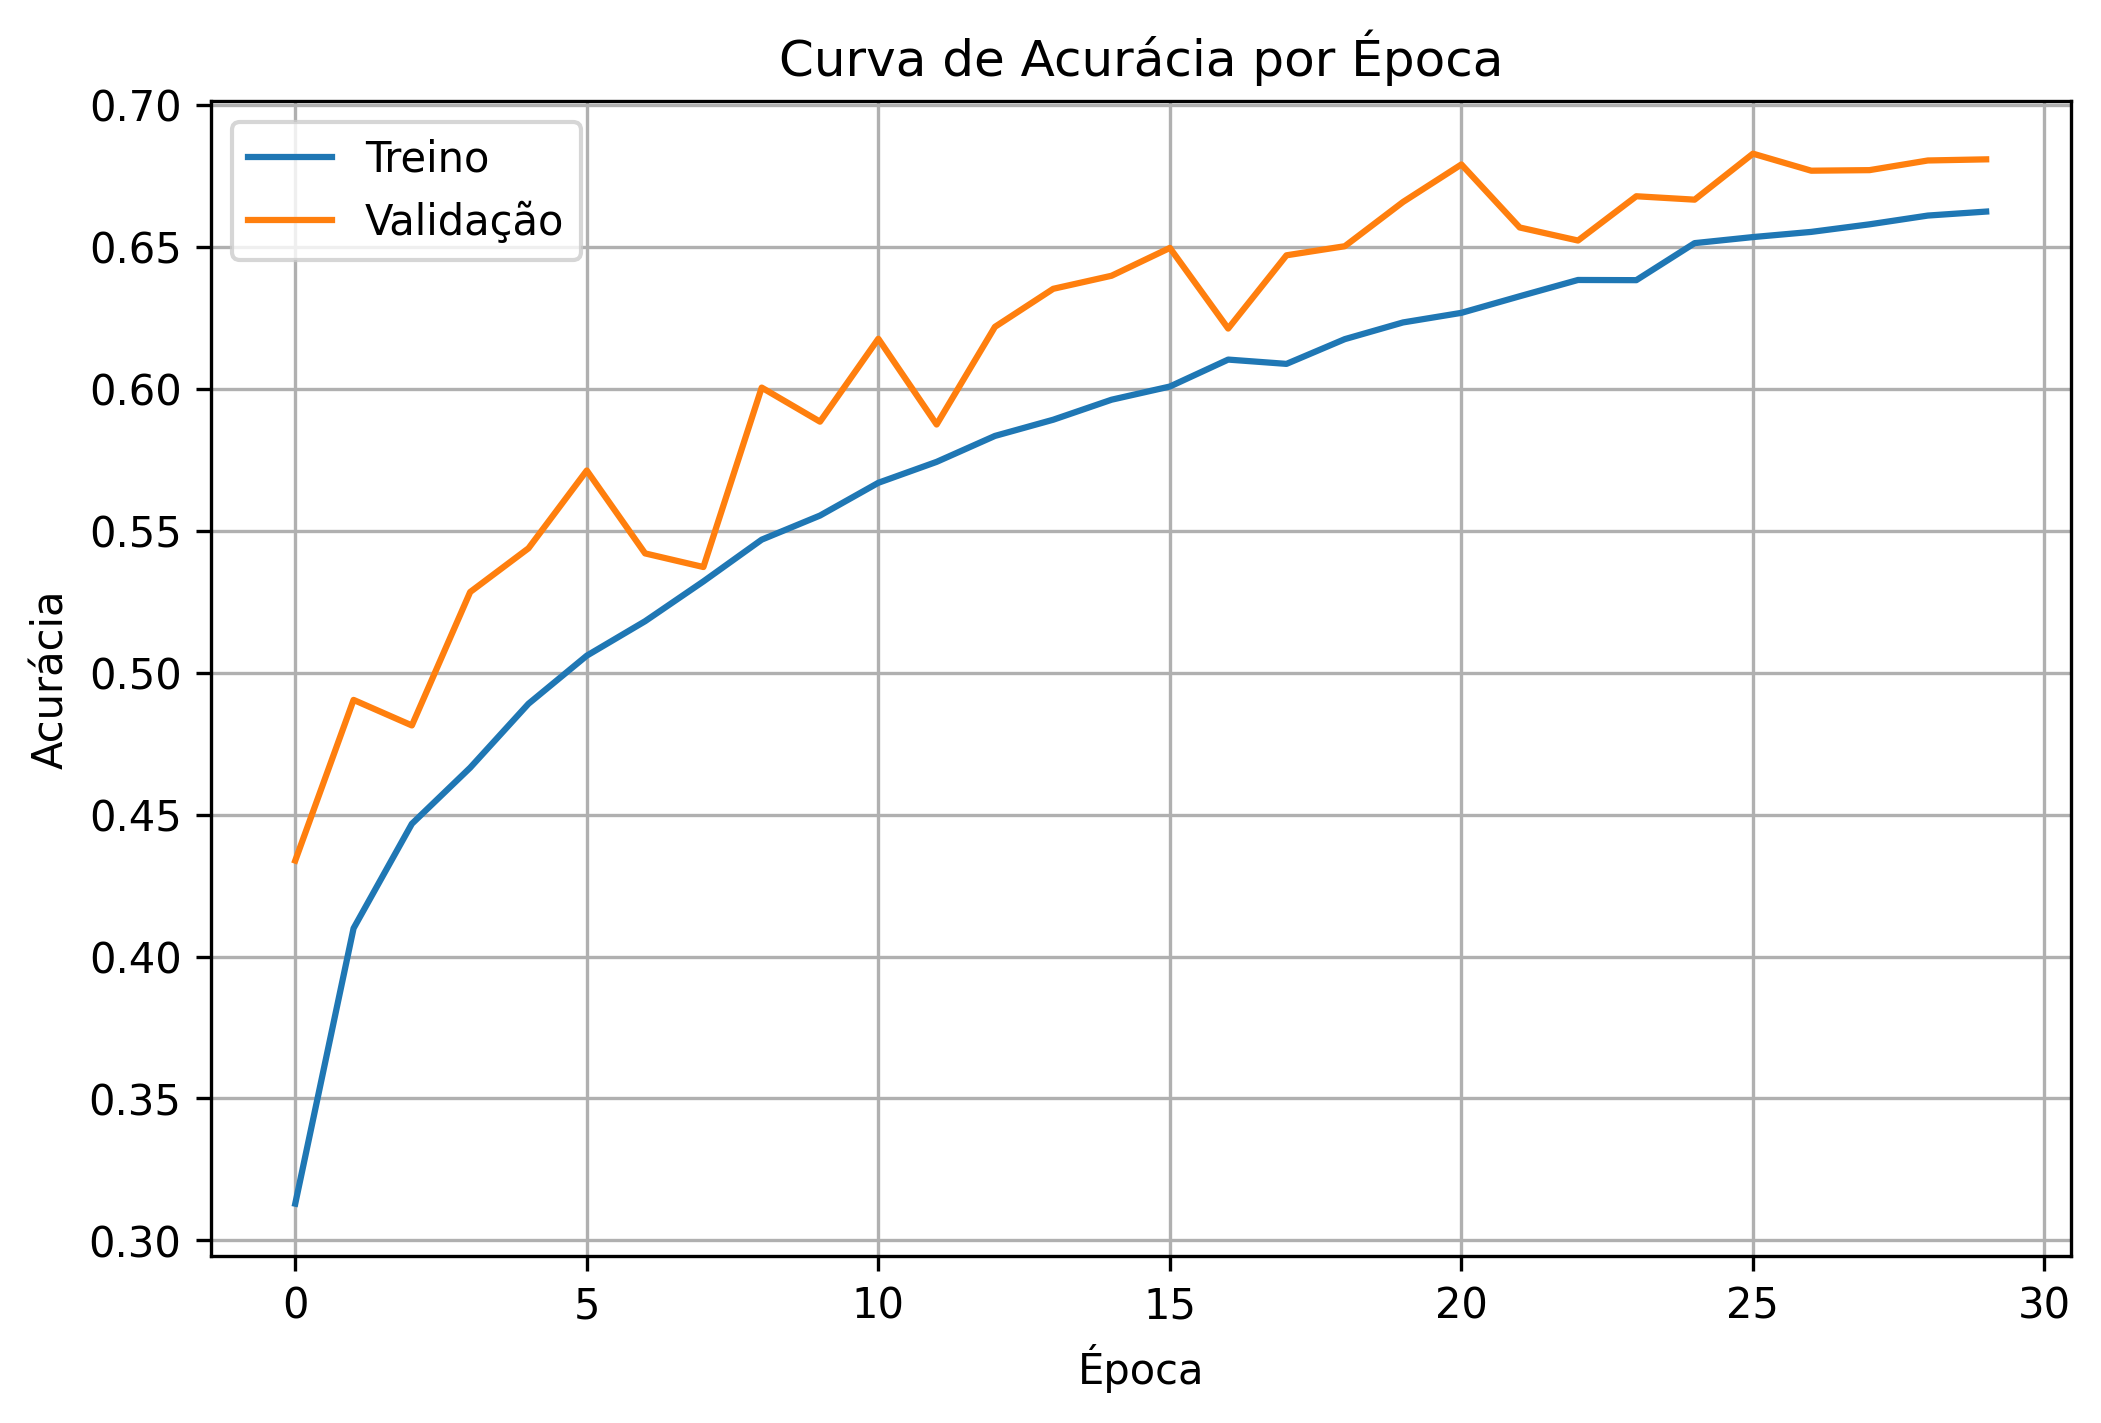
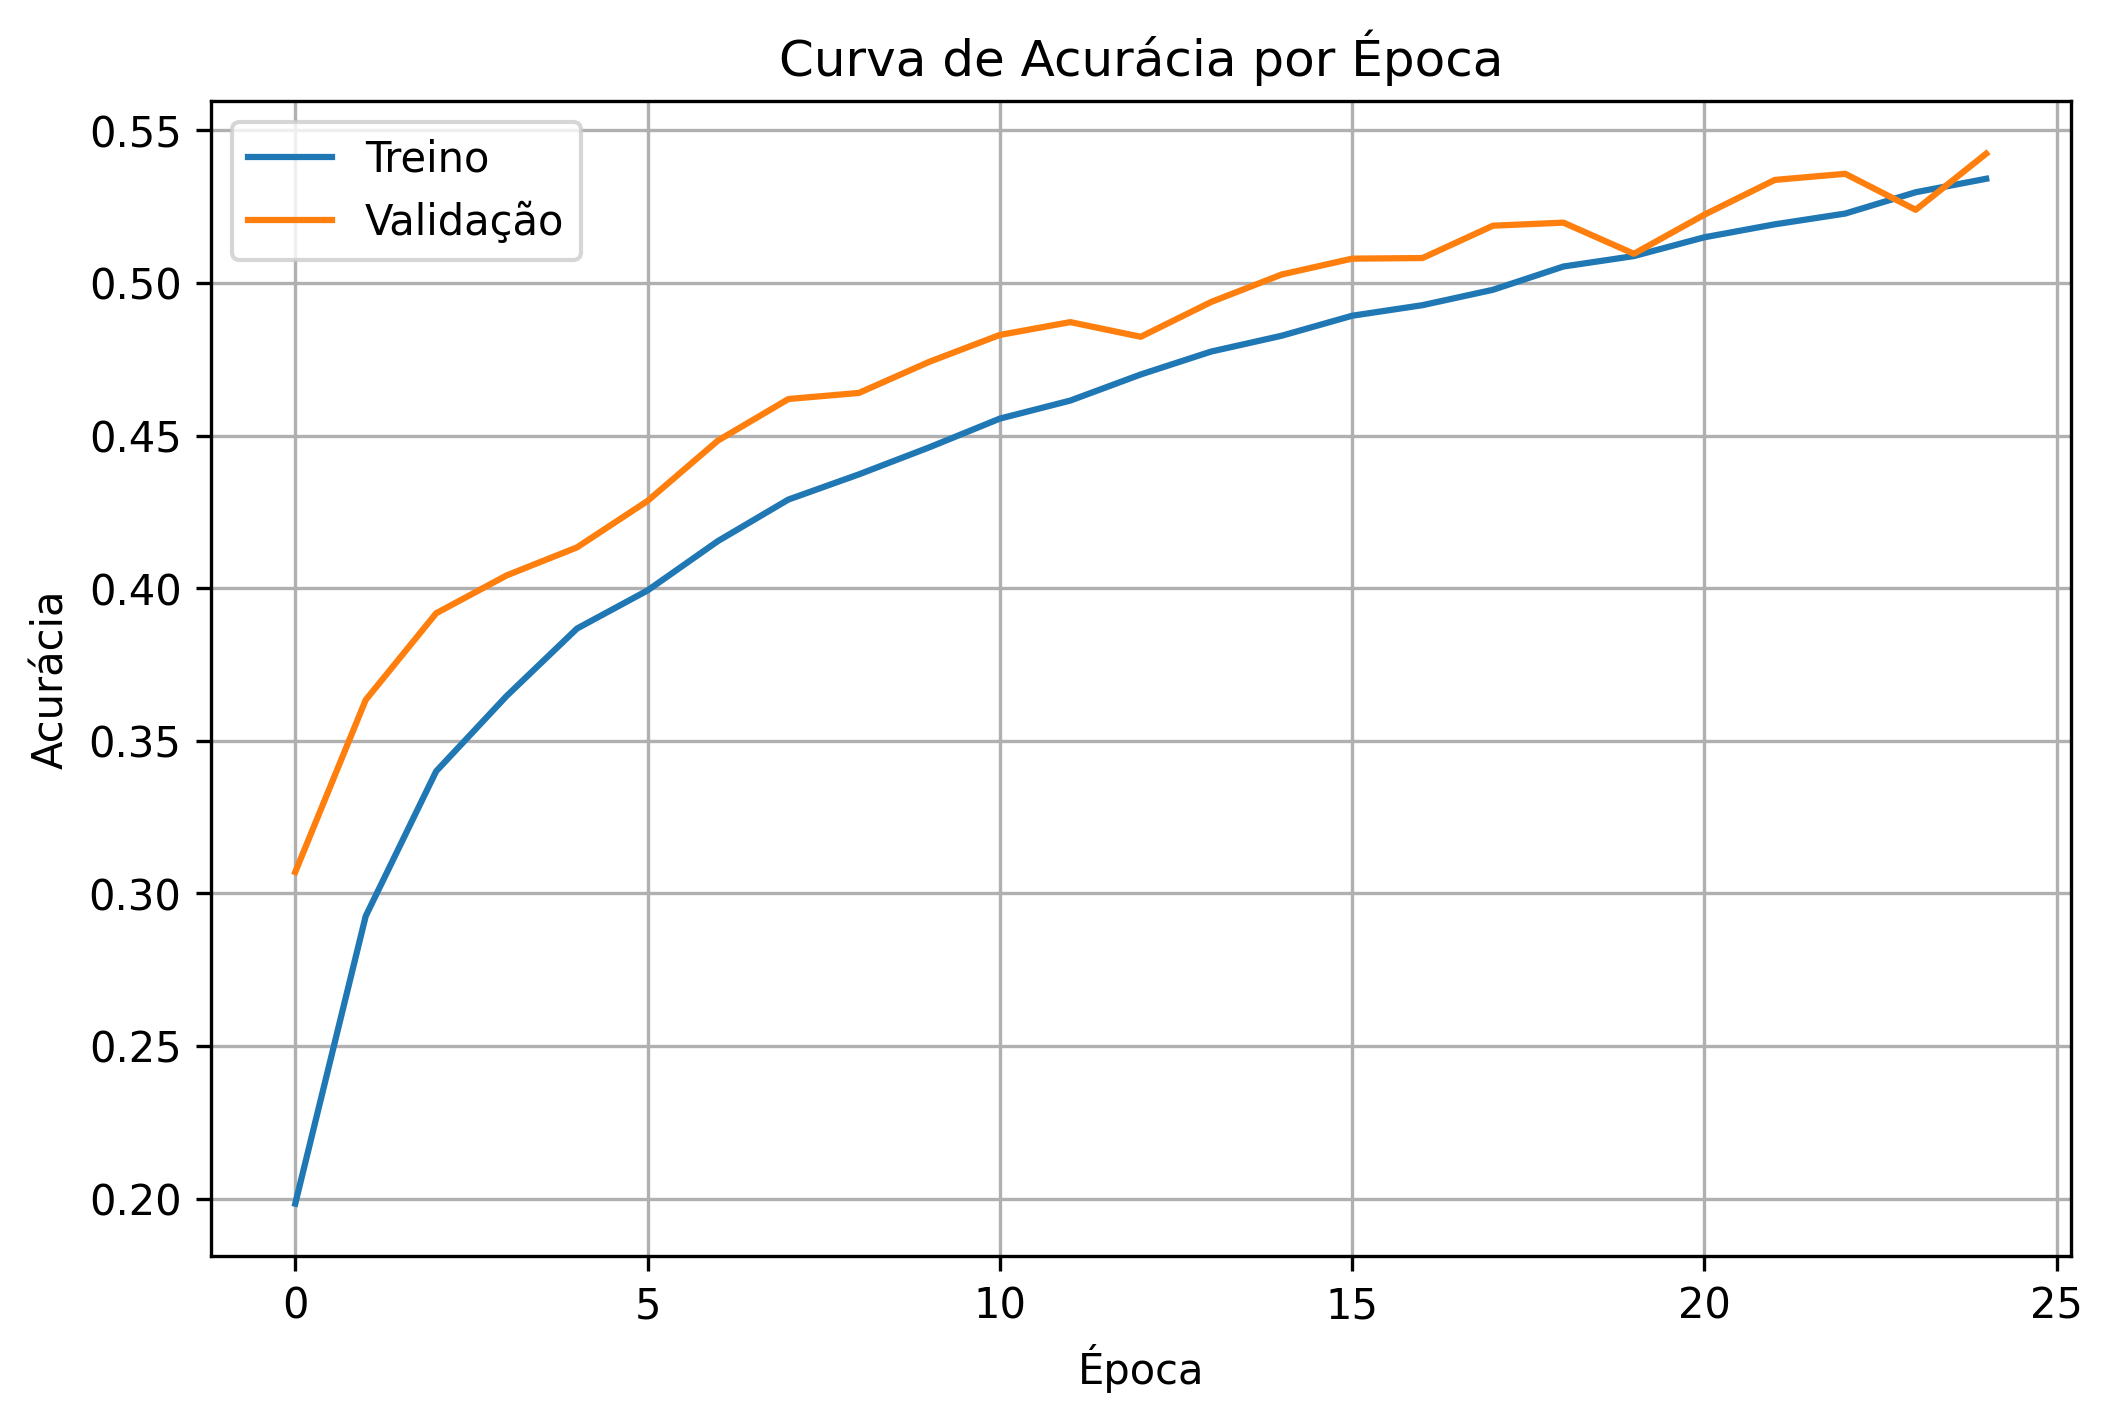
atualizacao de data_augmentation

diff --git a/model.py b/model.py
@@ -12,15 +12,22 @@ def build_model():
         tf.keras.layers.Conv2D(128, (3,3), activation="relu", padding="same"),
         tf.keras.layers.MaxPooling2D(2,2),
 
+        tf.keras.layers.Conv2D(256, (3,3), activation="relu", padding="same"),
+        tf.keras.layers.MaxPooling2D(2,2),
+        
+        tf.keras.layers.Conv2D(512, (3,3), activation="relu", padding="same"),
+        tf.keras.layers.MaxPooling2D(2,2),
+
         tf.keras.layers.Flatten(),
-        tf.keras.layers.Dense(128, activation="relu"),
-        tf.keras.layers.Dropout(0.4),
+        tf.keras.layers.Dense(512, activation="relu"),
+        tf.keras.layers.Dropout(0.5),
         tf.keras.layers.Dense(10 , activation = "softmax")
     ])
 
+   
 
     model.compile(
-        optimizer=tf.keras.optimizers.Adam(
+        optimizer = tf.keras.optimizers.Adam(
             learning_rate = LEARNING_RATE
         ),
         loss = "sparse_categorical_crossentropy",

diff --git a/train.py b/train.py
@@ -6,7 +6,7 @@ def train_model(model, train_data, val_data, epochs,):
         train_data,
         validation_data = val_data,
         epochs = epochs,
-        callbacks = tf.keras.callbacks.ReduceLROnPlateau(monitor = "val_loss", factor = 0.7, patience = 3),
+        callbacks = tf.keras.callbacks.ReduceLROnPlateau(monitor = "val_loss", factor = 0.4, patience = 7 , min_lr = 0.000001),
         verbose = 1
     )
 

diff --git a/data.py b/data.py
@@ -5,8 +5,8 @@ from config import BATCH_SIZE, OUTPUT_DIR
 
 data_augmentation = tf.keras.Sequential([
   tf.keras.layers.RandomFlip("horizontal"),
-  tf.keras.layers.RandomRotation(0.1),
-  tf.keras.layers.RandomZoom(0.1),
+  tf.keras.layers.RandomRotation(0.028),
+  tf.keras.layers.RandomZoom(0.05),
 ])
 
 def normalize(image, label):

diff --git a/config.py b/config.py
@@ -1,6 +1,6 @@
 
 BATCH_SIZE    = 32
-LEARNING_RATE = 0.001
-EPOCHS        = 100
+LEARNING_RATE = 0.00001
+EPOCHS        = 150
 
 OUTPUT_DIR    = "plots"
